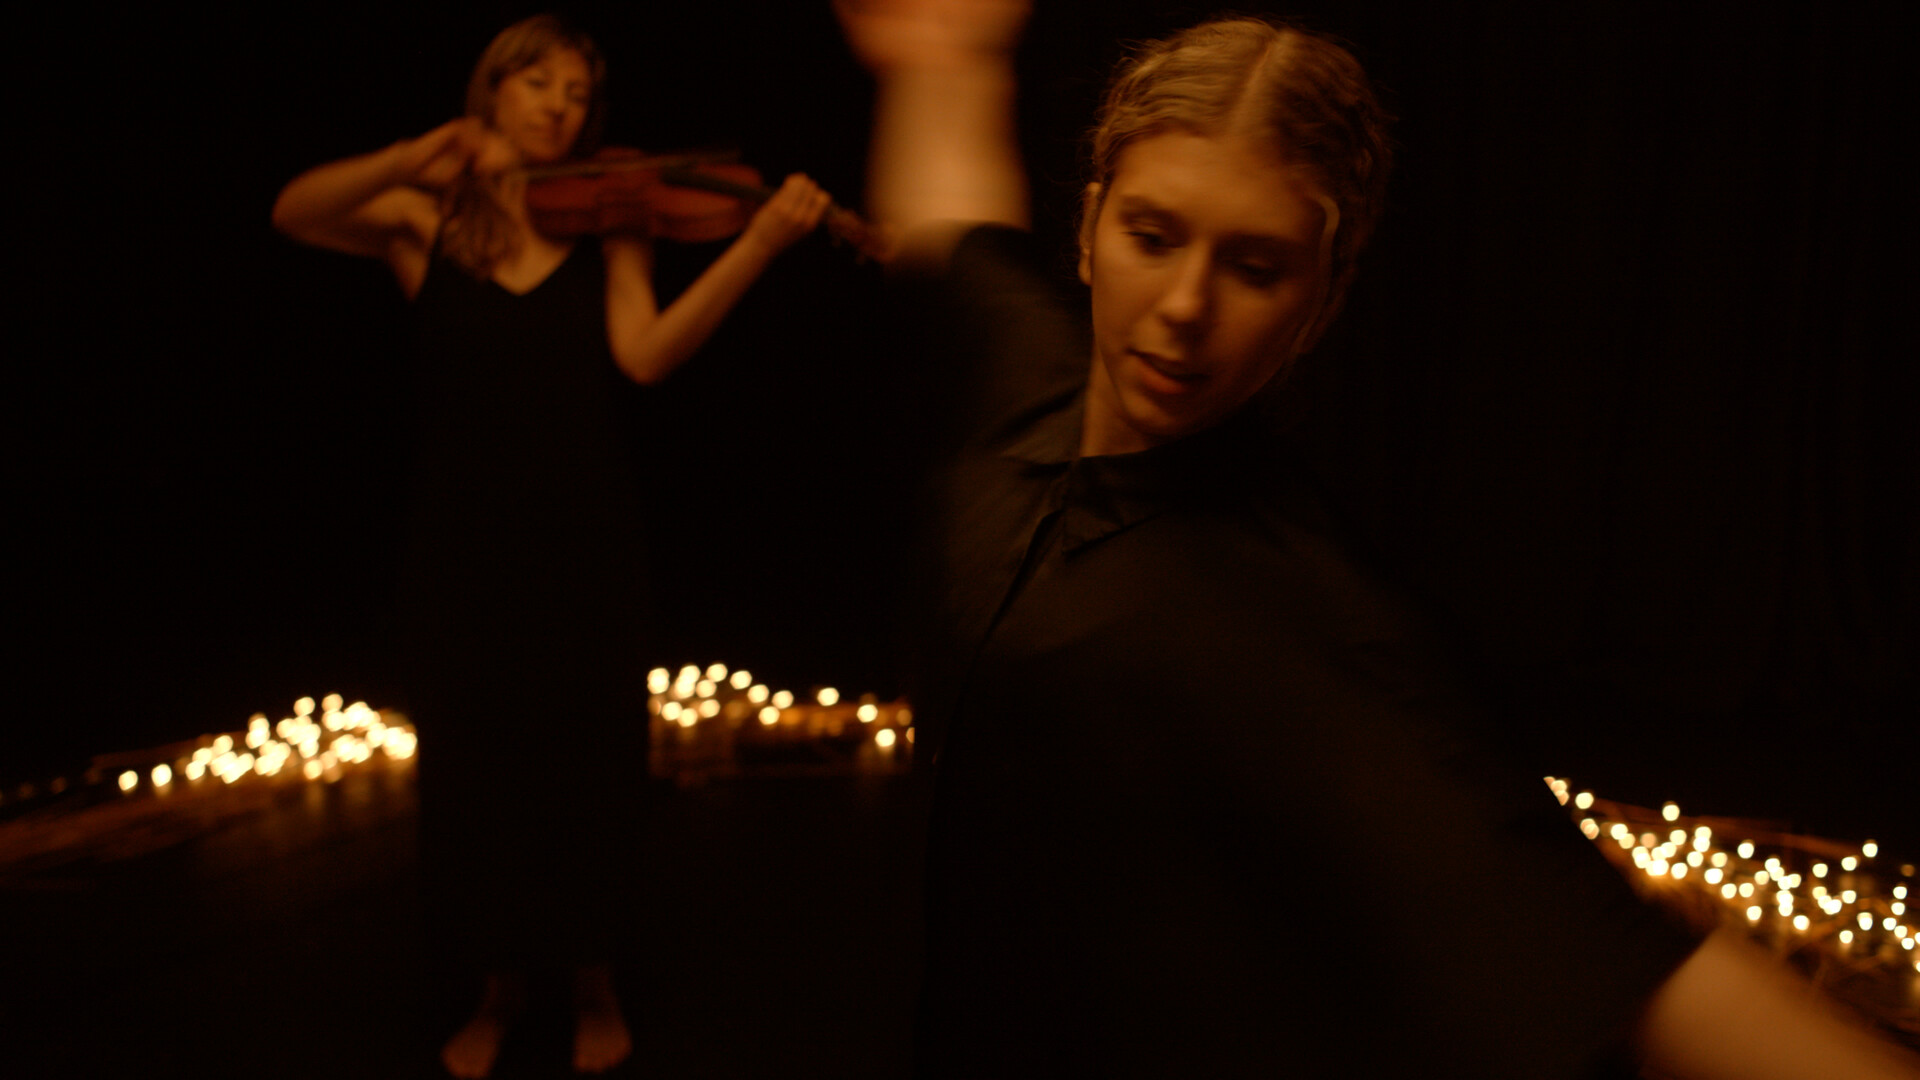
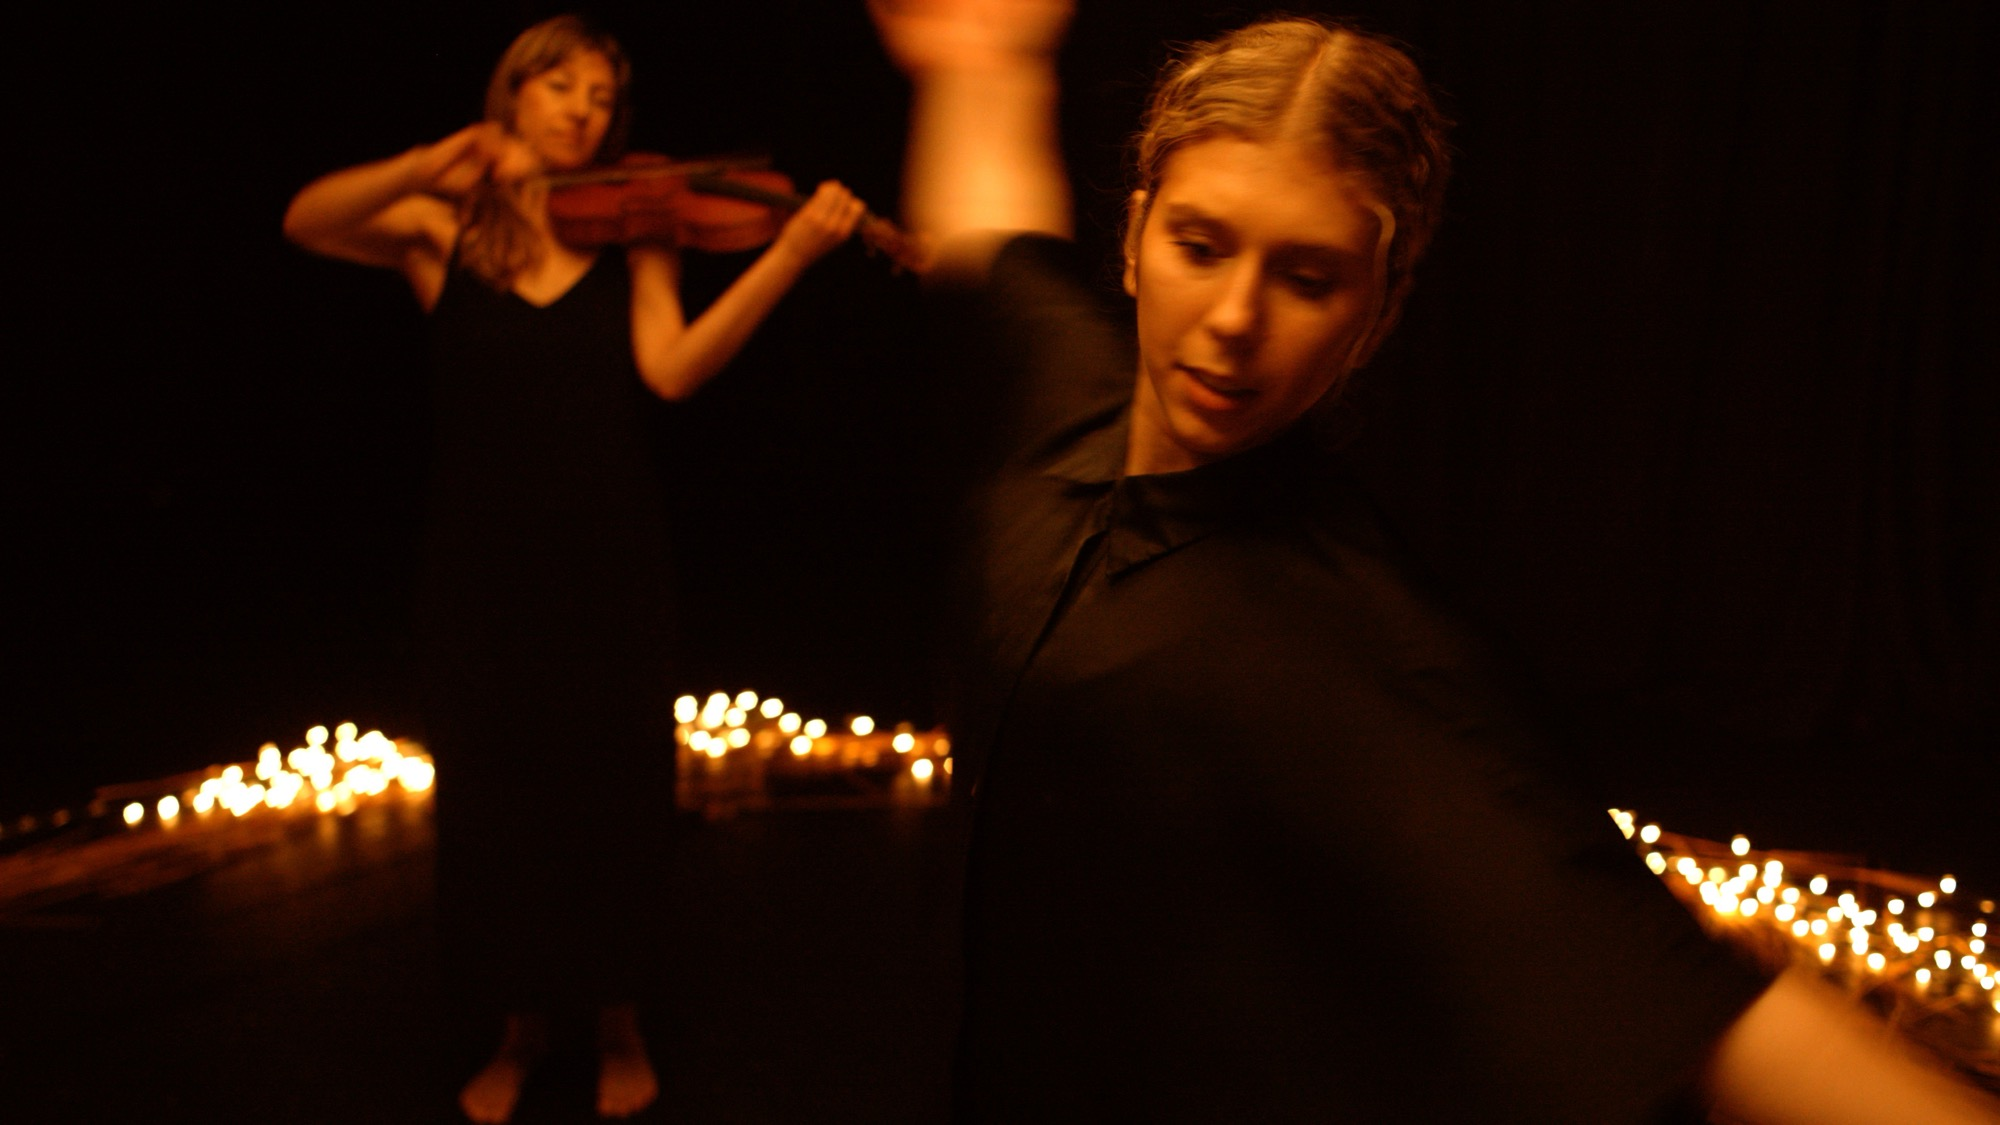
work on hamadan epk

diff --git a/assets/css/custom.css b/assets/css/custom.css
@@ -863,3 +863,20 @@ li.button a {
     position: relative;
     cursor: auto
 }
+
+.para-img{
+  float: right;
+  margin: 0 0 0.75rem 1rem;
+  max-width: 43%;
+  height: auto;
+}
+
+/* Small screens: stop floating and center above text */
+@media (max-width: 600px){
+  .para-img{
+    float: none;
+    display: block;
+    margin: 0 auto 1rem; /* centers block + adds space below */
+    max-width: 100%;
+  }
+}

diff --git a/pages/hamadan.md b/pages/hamadan.md
@@ -27,26 +27,27 @@ header:
     <hr>
     <h2 style="margin-bottom: 20px; margin-top: 20px">About the Work</h2>
 </div>
-<p>Ex deserunt aliquip aute non. Culpa sit elit laboris cillum consectetur cupidatat tempor proident. Ex exercitation officia adipisicing tempor tempor voluptate sint. Enim reprehenderit cillum proident aute minim mollit fugiat veniam.</p>
-<p>Fugiat veniam laboris excepteur esse Lorem adipisicing laborum ullamco anim do minim cupidatat. Excepteur non fugiat qui aute cillum aliqua. Pariatur aute voluptate deserunt adipisicing. Consequat ea labore velit in ipsum reprehenderit reprehenderit. Ex mollit cupidatat nostrud tempor aliqua in consequat occaecat laboris dolore occaecat laboris Lorem. Laborum exercitation officia deserunt id sit et sit esse et labore id ex labore exercitation. Culpa irure ad dolore est ut adipisicing amet proident nulla dolore ullamco. Et duis ad esse est quis officia qui consequat laboris aliquip magna consequat.</p>
-<p>Excepteur deserunt incididunt reprehenderit labore reprehenderit consectetur do ex labore ex minim ex occaecat fugiat. Aute dolor ipsum do labore et sunt exercitation incididunt ea laborum fugiat id dolore esse ipsum. Laborum ullamco anim pariatur officia eu qui eu exercitation sint. Et reprehenderit ea mollit ut tempor ea dolore dolore aute consequat. Dolore et mollit et sit ut. Excepteur pariatur labore mollit in id adipisicing irure non. Nulla voluptate cillum ex adipisicing voluptate ad.</p>
+<img class="para-img" src="{{ site.urlimg }}hamadan-photo-1.JPG" alt="Hamadan Photo">
+<p>In <i>The Four Seasons of Hamadan</i>, composer Kian Ravaei and choreographer Annie Kahane <b>intertwine seasonal rituals from their respective Persian and Jewish cultures</b>. Across four movements, each centering a different season, the violinist and dancer traverse a wide range of folkloric music and dance practices. “There’s something aspirational about the idea that two different cultures could weave together and make something more beautiful than could exist with each one on its own,” said Kahane.</p>
+<p>As research for this work, both artists immersed themselves in the traditions of Persian and Jewish music and dance. Ravaei spent a year learning the <i>setār</i>—a traditional Persian instrument—while taking lessons in klezmer music composition, using this knowledge to <b>push the boundaries of violin playing</b>. The music contains a variety of innovative violin techniques, from playing fast passages in the manner of a klezmer fiddle, to improvising florid melodies using scales unique to Persian music.</p>
+<!-- <p>“Annie and I are both from LA, where there’s a lot of Persian and Jewish culture,” says Ravaei. “So it was quite natural to serve our communities by bringing these traditions together.”</p> -->
 <blockquote class="text-center">
 <p>
-<span class="teaser">Kahane integrated the dancer and the musician {…} seamlessly between musical movements.</span>
-<cite><a href="https://www.ladancechronicle.com/dance-at-the-odyssey-2025-summer-edition-has-begun/" target="_blank">LA Dance Chronicle</a></cite>
+<span class="teaser">“Annie and I are both from LA, where there’s a lot of Persian and Jewish culture,” said Ravaei. “So it was quite natural to serve our communities by bringing these traditions together.”</span>
 </p>
 </blockquote>
+<p>Amid ongoing political hostilities between Iran and Israel, <i>The Four Seasons of Hamadan</i> explores how shared cultural practices—such as seasonal rituals—can become a meeting place for diverse communities, demonstrating that <b>learning from other cultures can be a powerful source of artistic insight and human connection.</b></p>
 <div class="text-center">
     <a href="{{ site.url }}/works/the-four-seasons-of-hamadan" target="_blank" class="button">Learn more in the composer's <b>Full Commentary</b></a>
 </div>
 <div class="row">
-    <div class="small-4 columns">
+    <!-- <div class="small-6 columns">
         <img src="{{ site.urlimg }}hamadan-photo-1.jpg" alt="Hamadan Photo 1">
-    </div>
-    <div class="small-4 columns">
+    </div> -->
+    <div class="small-6 columns">
         <img src="{{ site.urlimg }}hamadan-photo-2.jpg" alt="Hamadan Photo 2">
     </div>
-    <div class="small-4 columns">
+    <div class="small-6 columns">
         <img src="{{ site.urlimg }}hamadan-photo-3.jpg" alt="Hamadan Photo 3">
     </div>
 </div>
@@ -56,7 +57,7 @@ header:
     <div class="small-12 medium-6 columns">
         <h3 style="margin-top: 20px">Kian Ravaei</h3>
         <img style="float: left; width: 160px; margin: 0.75rem 1rem 0 0;" src="{{ site.urlimg }}ravaei_headshot.JPG" alt="Kian Ravaei headshot">
-        <p>Composer Kian Ravaei takes tone painting to a new level, synthesizing diverse inspirations ranging from the Iranian music of his ancestral heritage to the pulsating electronic music of late-night dance clubs. From Carnegie Hall to Pierre Boulez Saal, sought-after musicians including Fleur Barron, Lara Downes, and Anthony McGill have brought Ravaei’s works to global stages. His music has been commissioned by Seattle Chamber Music Society, Chamber Music Northwest, and American Composers Orchestra, with commissioning awards from Chamber Music America, New Music USA, and the Barlow Endowment. He is currently a C.V. Starr Doctoral Fellow at The Juilliard School. <a href="{{ site.url }}" target="_blank">kianravaei.com</a></p>
+        <p>Composer Kian Ravaei takes tone painting to a new level, synthesizing diverse inspirations ranging from the Iranian music of his ancestral heritage to the pulsating electronic music of late-night dance clubs. From Carnegie Hall to Concertgebouw, sought-after musicians including Fleur Barron, Lara Downes, and Anthony McGill have brought Ravaei’s works to global stages. His music has been commissioned by Seattle Chamber Music Society, Chamber Music Northwest, and American Composers Orchestra, with commissioning awards from Chamber Music America, New Music USA, and the Barlow Endowment. He is currently a C.V. Starr Doctoral Fellow at The Juilliard School. <a href="{{ site.url }}" target="_blank">kianravaei.com</a></p>
     </div>
     <div class="small-12 medium-6 columns">
         <h3 style="margin-top: 20px">Annie Kahane</h3>
@@ -64,6 +65,12 @@ header:
         <p>Annie Kahane is a performer and art-maker working in poetry, dance and theater.  Her performance projects have been supported by the San Francisco International Arts Festival, the Odyssey Theater (Los Angeles), the Zellerbach Family Foundation, ODC Theater (San Francisco), the Kenneth Rainin Foundation, the Hollywood Fringe Festival, PUSHfest Dance Festival, UC-AFT's Professional Development Fund and New Music USA, among others. Her poetry has been featured on multiple NPR stations. She is a faculty member in the Department of Kinesiology/Dance at California State University Northridge. <a href="https://www.aliveandwellproductions.org" target="_blank">aliveandwellproductions.org</a></p>
     </div>
 </div>
+<blockquote class="text-center">
+<p>
+<span class="teaser">Kahane integrated the dancer and the musician {…} seamlessly between musical movements.</span>
+<cite><a href="https://www.ladancechronicle.com/dance-at-the-odyssey-2025-summer-edition-has-begun/" target="_blank">LA Dance Chronicle</a></cite>
+</p>
+</blockquote>
 <hr>
 <h2 class="text-center" style="margin-bottom: 20px; margin-top: 20px">Project Credits</h2>
 <div class="row">
